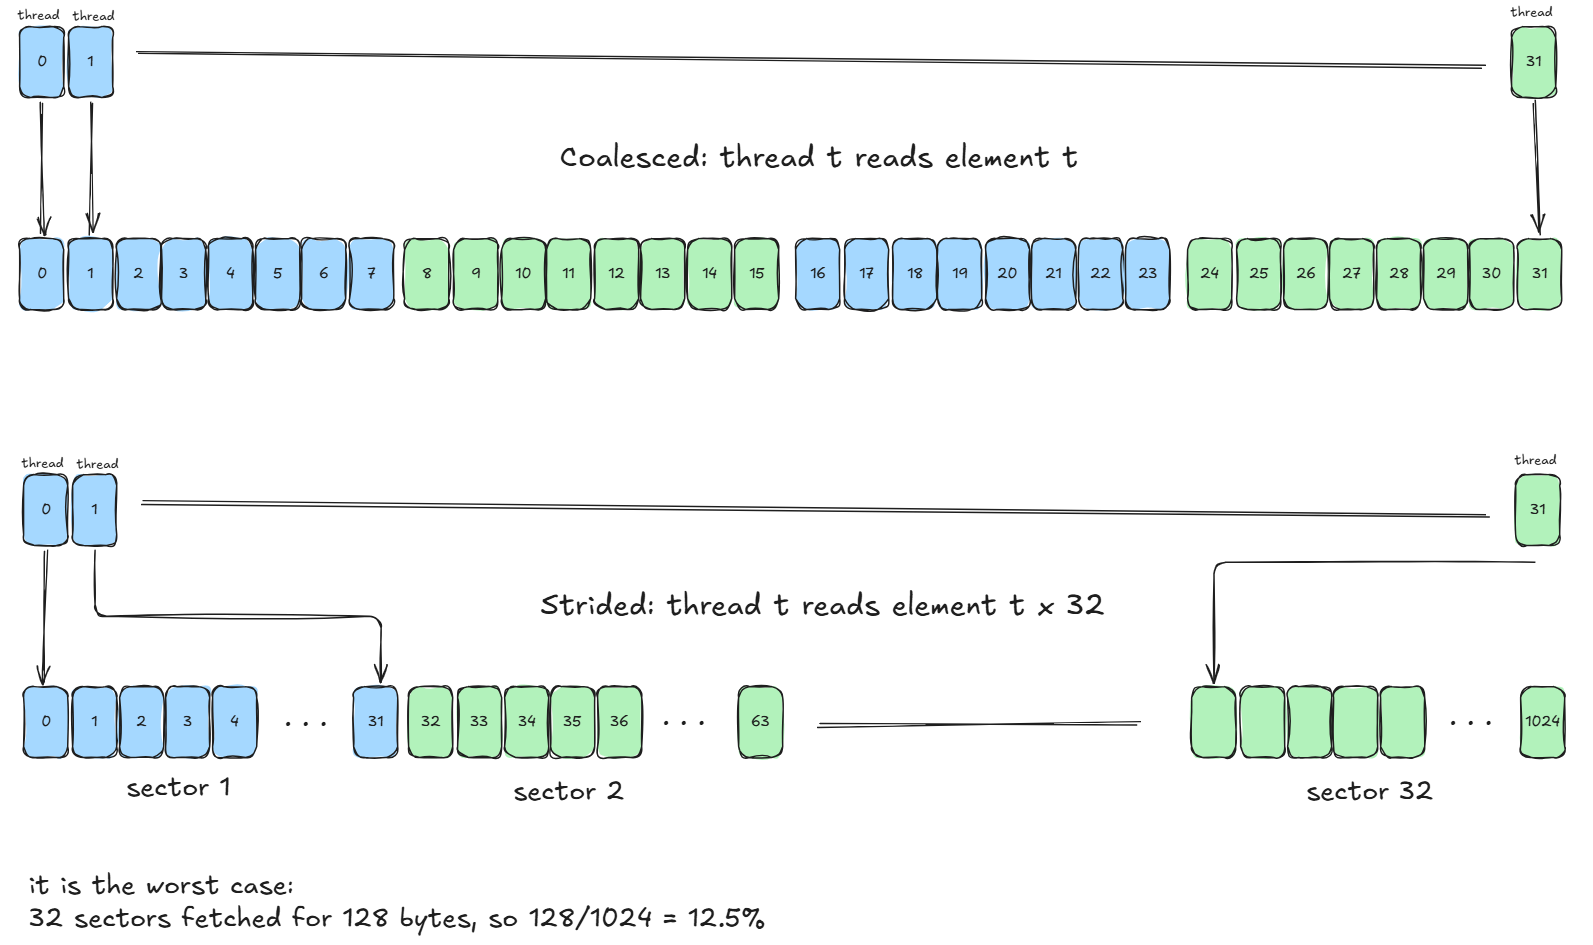
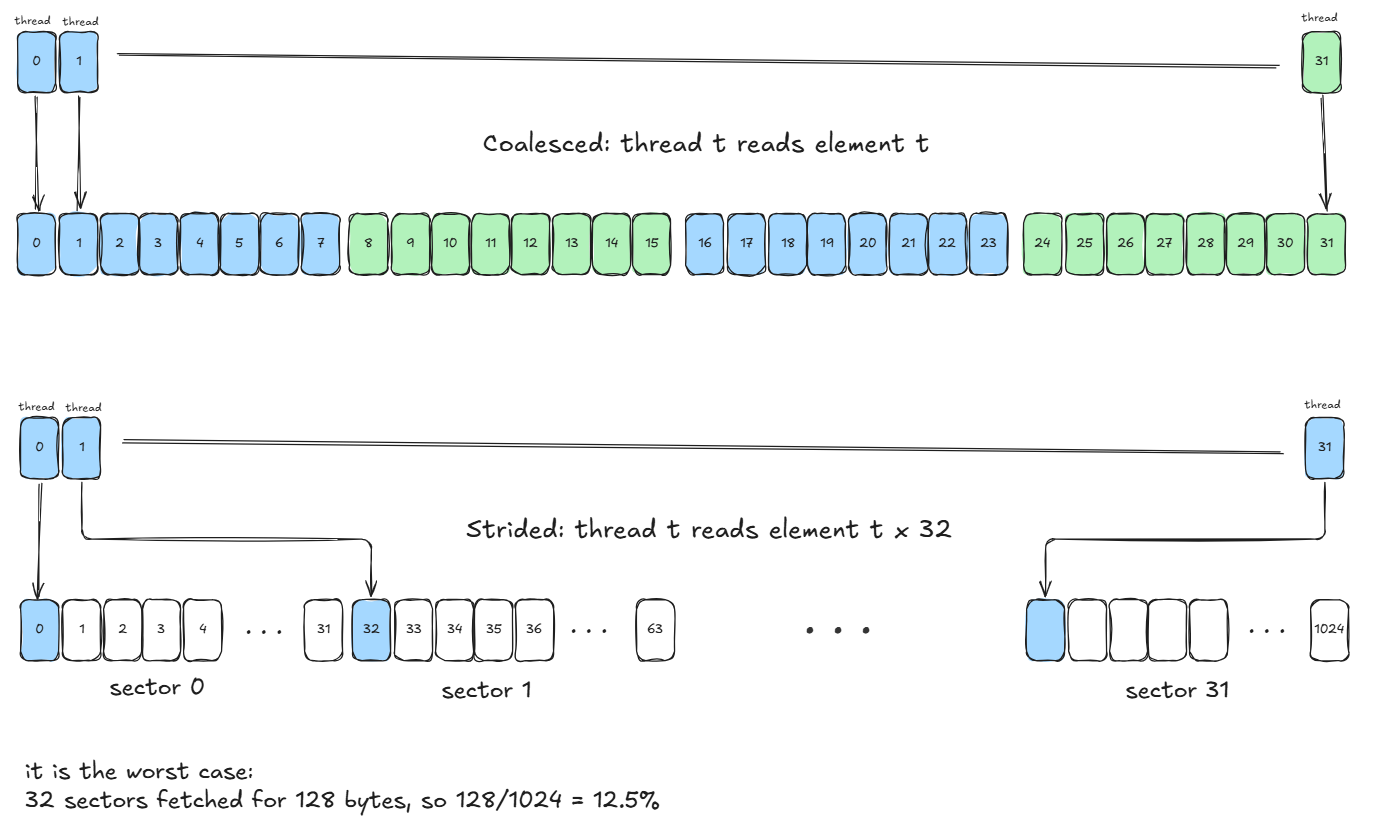
memory access patterns

diff --git a/README.md b/README.md
@@ -305,7 +305,7 @@ Every element of M and N is read W times, once for each output that needs it. Th
 - The H100 needs about 300 FLOPs per byte to be compute-bound. The naive kernel is far on the memory-bound side. 
 
 
-## Day 4: Memory access: Coalescing and Bandwidth 
+## Day 4: Memory access: Coalescing 
 The goal for today is to see with measurements that the way threads touch memory can change speed by 4x to 8x. We use simple copy kernels.
 
 - Global memory is DRAM(HBM or GDDR). Reading one cell is slow. To compensate, DRAM returns a burst: a block of consecutive bytes for each access. Bytes of the burst that you use are cheap. Bytes you don't use are wasted. 
@@ -315,6 +315,14 @@ The goal for today is to see with measurements that the way threads touch memory
 - So the speed depends on how many sectors a warp must fetch, not on how many bytes it needs. 
 
 ![Efficient Memory Fetching](./assets/day4/sectors.png)
+
+There are three types of global memory access: 
+
+1. **Contiguous access(Coalesced)**: consecutive threads access consecutive memory locations. The GPU combines these reqeusts into fewer memory transactions. 
+
+2. **Stried Access(Uncoalesced)**: consecutive threads access memory locations separated by a fixed distance(stride). This requires more memory transactions and wastes bandwidth. 
+
+3. **Random access(scattered):** threads access unrelated memory locaitons with no predictable pattern. The GPU may need separate memory transactions for each access, resulting in poort memory efficieny. 
 
 
 ### Coalescing
@@ -343,10 +351,34 @@ Stride = how many floats apart neighbouring threads read. Thread t reads element
 
 From stride 8, every thread already uses its own sector (32 threads = 32 sectors). So it cannot get worse than 12.5%.
 
-- If the 32 floats start in the middle of a sector, the warp touches 5 sectors instead of 4. This is 80%(128/160) useful. The effect is small on modern GPUs, because the cache keeps the neighbouring sector for the next warp.
+<br/>
+
+If the 32 floats start in the middle of a sector, the warp touches 5 sectors instead of 4. This is 80%(128/160) useful. The effect is small on modern GPUs, because the cache keeps the neighbouring sector for the next warp.
+
+![Misaligned access](./assets/day4/misaligned.png)
 
 
-- Writes follow the same rule. A store that changes only part of a sector can be even worse than a load. With ECC on, the GPU must read the sector, change it, and write it back.
+Writes follow the same rule. A store that changes only part of a sector can be even worse than a load. With ECC on, the GPU must read the sector, change it, and write it back.
 
 
-- The rule is to make `threadIdx.x` move along the contiguous index, so that neighbouring threads access neighbouring floats.
+The rule is to make `threadIdx.x` move along the contiguous index, so that neighbouring threads access neighbouring floats.
+
+
+### How to Get Coalesced Memory Access 
+The rule is to map consecutive threads to consecutive memory locations. 
+
+- The threads of a warp have consecutive `threadIdx.x`. So `threadIdx.x` must move along the contiguous index of the array. 
+
+- Row-major matrix: element (row, col) is at `row * Width + col`. The column is contiguous so col must come from threadIdx.x. Moving across columns increases the memory index by one. 
+
+- `N[k * Width + col]` is coalesced. `M[row * Width + k]` has the same address for all threads of a warp. (one value from the M is broadcasted). 
+
+- If threads walk down a column (`A[col * Width + row]`), their addresses are `Width` apart. Uncoalesced. 
+
+- Use structure of arrays (one array per field) instead of array of structures when each thread reads the same field of different items. 
+
+### Shared Memory 
+Shared memory has 32 banks, each 4 bytes wide. Word number i is in bank i % 32. If the 32 threads of a warp use 32 different banks, all are served in one step. If several threads use different addresses in the same bank, that is a bank conflict. The accesses are served serially: one after another. If several threads read the same address, it is a braodcast. No conflict, like in the third point in the previous section. 
+
+Tomorrow we will cover some more memory optimizations. 
+
